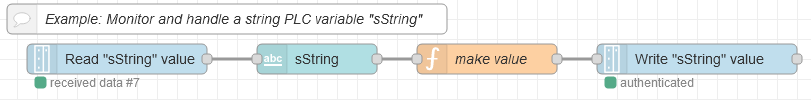
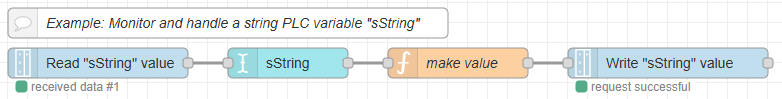
Dashboard 2.0 PLC examples added

diff --git a/doc/EXAMPLES.md b/doc/EXAMPLES.md
@@ -299,7 +299,7 @@ The request returns in `msg.payload` the written value:
 
 ## ctrlX OS - PLC App dashboard examples
 
-Please note that for these examples the installation of the ctrlX OS - PLC App is expected. See [our store](https://community.boschrexroth.com/ctrlx-os-store-apps-oc2pqqwn/post/ctrlx-os---plc-aOZcdG2bmV0fNRE) and the corresponding [documentation of the ctrlX OS - PLC App](https://docs.automation.boschrexroth.com/iirds/cdp-metadata.boschrexroth.de~iiDC~Product-ctrlX-PLC-App/).
+Please note that for these examples the installation of the ctrlX OS - PLC App is expected. See [our ctrlX OS Store](https://community.boschrexroth.com/ctrlx-os-store-apps-oc2pqqwn/post/ctrlx-os---plc-aOZcdG2bmV0fNRE) and the corresponding [documentation of the ctrlX OS - PLC App](https://docs.automation.boschrexroth.com/iirds/cdp-metadata.boschrexroth.de~iiDC~Product-ctrlX-PLC-App/).
 
 ### Monitor and handle a boolean PLC variable "bBoolean"
 
@@ -325,8 +325,14 @@ bBoolean;
 ![examples-plc-monitor-handle-boolean.png](./images/examples-plc-monitor-handle-boolean.png)
 ![examples-plc-monitor-handle-boolean-dashboard.png](./images/examples-plc-monitor-handle-boolean-dashboard.png)
 
+Dashboard 1.0
 ```JSON
 [{"id":"c1cc8f5b.e11858","type":"ctrlx-datalayer-request","z":"4ff80d56.dd60fc","device":"7b877229.678964","method":"WRITE","path":"plc/app/Application/sym/GVL/bBoolean","payloadFormat":"value_type","name":"Write \"bBoolean\" value","x":790,"y":160,"wires":[[]]},{"id":"ec4257d3.ae58b","type":"ui_switch","z":"4ff80d56.dd60fc","name":"","label":"bBoolean ","tooltip":"","group":"938bb9af.bc8108","order":1,"width":"0","height":"0","passthru":false,"decouple":"true","topic":"","topicType":"str","style":"","onvalue":"{\"value\":true,\"type\":\"bool8\"}","onvalueType":"json","onicon":"","oncolor":"","offvalue":"{\"value\":false,\"type\":\"bool8\"}","offvalueType":"json","officon":"","offcolor":"","animate":false,"x":580,"y":160,"wires":[["c1cc8f5b.e11858"]]},{"id":"d2ca5a5e.a1144","type":"comment","z":"4ff80d56.dd60fc","name":"Example: Monitor and handle a boolean PLC variable \"bBoolean\"","info":"","x":300,"y":120,"wires":[]},{"id":"430d03bd.4a9864","type":"ctrlx-datalayer-subscribe","z":"4ff80d56.dd60fc","subscription":"632bcc2.eddf134","path":"plc/app/Application/sym/GVL/bBoolean","name":"Read \"bBoolean\" value","x":200,"y":160,"wires":[["d399bf94.d6f75"]]},{"id":"d399bf94.d6f75","type":"function","z":"4ff80d56.dd60fc","name":"make value","func":"var newMsg = {}\nnewMsg.payload = {\"type\":\"bool8\",\"value\":msg.payload}\nreturn newMsg;","outputs":1,"noerr":0,"initialize":"","finalize":"","libs":[],"x":410,"y":160,"wires":[["ec4257d3.ae58b"]]},{"id":"7b877229.678964","type":"ctrlx-config","name":"localhost","hostname":"localhost","debug":false},{"id":"938bb9af.bc8108","type":"ui_group","name":"PLC Variable handling","tab":"9cba2148.8c9148","order":1,"disp":true,"width":"4","collapse":false},{"id":"632bcc2.eddf134","type":"ctrlx-config-subscription","device":"7b877229.678964","name":"Sub_Default","publishIntervalMs":""},{"id":"9cba2148.8c9148","type":"ui_tab","name":"Examples","icon":"dashboard","order":7,"disabled":false,"hidden":false}]
+```
+
+Dashboard 2.0
+```JSON
+[{"id":"c1cc8f5b.e11858","type":"ctrlx-datalayer-request","z":"af28b7f20c662b36","device":"7b877229.678964","method":"WRITE","path":"plc/app/Application/sym/GVL/bBoolean","payloadFormat":"value_type","name":"Write \"bBoolean\" value","pendingWarnLevel":"","pendingErrorLevel":"","x":740,"y":1020,"wires":[[]]},{"id":"d2ca5a5e.a1144","type":"comment","z":"af28b7f20c662b36","name":"Example: Monitor and handle a boolean PLC variable \"bBoolean\"","info":"","x":290,"y":980,"wires":[]},{"id":"430d03bd.4a9864","type":"ctrlx-datalayer-subscribe","z":"af28b7f20c662b36","subscription":"632bcc2.eddf134","path":"plc/app/Application/sym/GVL/bBoolean","name":"Read \"bBoolean\" value","inputs":0,"x":160,"y":1020,"wires":[["d399bf94.d6f75"]]},{"id":"d399bf94.d6f75","type":"function","z":"af28b7f20c662b36","name":"make value","func":"var newMsg = {}\nnewMsg.payload = {\"type\":\"bool8\",\"value\":msg.payload}\nreturn newMsg;","outputs":1,"timeout":"","noerr":0,"initialize":"","finalize":"","libs":[],"x":370,"y":1020,"wires":[["ef83ceeb10b7e4a5"]]},{"id":"ef83ceeb10b7e4a5","type":"ui-switch","z":"af28b7f20c662b36","name":"","label":"bBolean","group":"1b28f1fbf61ee8d3","order":0,"width":"1","height":"1","passthru":false,"decouple":true,"topic":"topic","topicType":"msg","style":"","className":"","layout":"row-spread","clickableArea":"switch","onvalue":"{\"type\":\"bool8\", \"value\":true}","onvalueType":"json","onicon":"","oncolor":"","offvalue":"{\"type\":\"bool8\", \"value\":false}","offvalueType":"json","officon":"","offcolor":"","x":540,"y":1020,"wires":[["c1cc8f5b.e11858"]]},{"id":"7b877229.678964","type":"ctrlx-config","name":"localhost","hostname":"localhost","debug":false},{"id":"632bcc2.eddf134","type":"ctrlx-config-subscription","device":"7b877229.678964","name":"Sub_Default","publishIntervalMs":"","samplingInterval":"","errorInterval":"","keepaliveInterval":"","queueSize":"","deadbandValue":""},{"id":"1b28f1fbf61ee8d3","type":"ui-group","name":"PLC variable handling","page":"30e3bb10109e324b","width":6,"height":1,"order":-1,"showTitle":true,"className":"","visible":"true","disabled":"false","groupType":"default"},{"id":"30e3bb10109e324b","type":"ui-page","name":"Page 1","ui":"ae50776f3a63db0e","path":"/page1","icon":"home","layout":"grid","theme":"a204995a5a44f2b2","breakpoints":[{"name":"Default","px":0,"cols":3},{"name":"Tablet","px":576,"cols":6},{"name":"Small Desktop","px":768,"cols":9},{"name":"Desktop","px":1024,"cols":12}],"order":1,"className":"","visible":true,"disabled":false},{"id":"ae50776f3a63db0e","type":"ui-base","name":"My Dashboard","path":"/dashboard","appIcon":"","includeClientData":true,"acceptsClientConfig":["ui-notification","ui-control"],"showPathInSidebar":false,"headerContent":"page","navigationStyle":"default","titleBarStyle":"default","showReconnectNotification":true,"notificationDisplayTime":1,"showDisconnectNotification":true,"allowInstall":false},{"id":"a204995a5a44f2b2","type":"ui-theme","name":"Default Theme","colors":{"surface":"#ffffff","primary":"#0094CE","bgPage":"#eeeeee","groupBg":"#ffffff","groupOutline":"#cccccc"},"sizes":{"density":"default","pagePadding":"12px","groupGap":"12px","groupBorderRadius":"4px","widgetGap":"12px"}},{"id":"42a5b5027f278091","type":"global-config","env":[],"modules":{"node-red-contrib-ctrlx-automation":"1.9.8","@flowfuse/node-red-dashboard":"1.30.2"}}]
 ```
 
 ### Monitor and handle an integer PLC variable "iInteger"
@@ -339,7 +345,7 @@ The following example shows how to read, write and monitor a PLC variable `iInte
 {attribute 'linkalways'}
 {attribute 'symbol' := 'readwrite'}
 VAR_GLOBAL
-  iInteger : BOOL;
+  iInteger : INT;
 END_VAR
 ```
 
@@ -352,8 +358,14 @@ iInteger;
 ![examples-plc-monitor-handle-integer.png](./images/examples-plc-monitor-handle-integer.png)
 ![examples-plc-monitor-handle-integer-dashboard.png](./images/examples-plc-monitor-handle-integer-dashboard.png)
 
+Dashboard 1.0
 ```JSON
 [{"id":"6afd3c5c.85174c","type":"ctrlx-datalayer-request","z":"4ff80d56.dd60fc","device":"7b877229.678964","method":"WRITE","path":"plc/app/Application/sym/GVL/iInteger","payloadFormat":"value_type","name":"Write \"iInteger\" value","x":780,"y":300,"wires":[[]]},{"id":"699499c0.a19078","type":"ui_text_input","z":"4ff80d56.dd60fc","name":"","label":"iInteger","tooltip":"","group":"938bb9af.bc8108","order":1,"width":0,"height":0,"passthru":false,"mode":"number","delay":"0","topic":"topic","topicType":"msg","x":400,"y":300,"wires":[["dad913ff.7d0c6"]]},{"id":"dad913ff.7d0c6","type":"function","z":"4ff80d56.dd60fc","name":"make value","func":"var newMsg = {}\nnewMsg.payload = {\"type\":\"int16\",\"value\":msg.payload}\nreturn newMsg;","outputs":1,"noerr":0,"initialize":"","finalize":"","x":570,"y":300,"wires":[["6afd3c5c.85174c"]]},{"id":"f24564a9.ceb668","type":"ctrlx-datalayer-subscribe","z":"4ff80d56.dd60fc","subscription":"632bcc2.eddf134","path":"plc/app/Application/sym/GVL/iInteger","name":"Read \"iInteger\" value","x":200,"y":300,"wires":[["699499c0.a19078"]]},{"id":"1da5cb6a.45e5cd","type":"comment","z":"4ff80d56.dd60fc","name":"Example: Monitor and handle an integer PLC variable \"iInteger\"","info":"","x":300,"y":260,"wires":[]},{"id":"7b877229.678964","type":"ctrlx-config","name":"localhost","hostname":"localhost","debug":false},{"id":"938bb9af.bc8108","type":"ui_group","name":"PLC Variable handling","tab":"9cba2148.8c9148","order":1,"disp":true,"width":"4","collapse":false},{"id":"632bcc2.eddf134","type":"ctrlx-config-subscription","device":"7b877229.678964","name":"Sub_Default","publishIntervalMs":""},{"id":"9cba2148.8c9148","type":"ui_tab","name":"Examples","icon":"dashboard","order":7,"disabled":false,"hidden":false}]
+```
+
+Dashboard 2.0
+```JSON
+[{"id":"6afd3c5c.85174c","type":"ctrlx-datalayer-request","z":"af28b7f20c662b36","device":"7b877229.678964","method":"WRITE","path":"plc/app/Application/sym/GVL/iInteger","payloadFormat":"value_type","name":"Write \"iInteger\" value","pendingWarnLevel":"","pendingErrorLevel":"","x":780,"y":1200,"wires":[[]]},{"id":"dad913ff.7d0c6","type":"function","z":"af28b7f20c662b36","name":"make value","func":"var newMsg = {}\nnewMsg.payload = {\"type\":\"int16\",\"value\":msg.payload}\nreturn newMsg;","outputs":1,"timeout":"","noerr":0,"initialize":"","finalize":"","libs":[],"x":570,"y":1200,"wires":[["6afd3c5c.85174c"]]},{"id":"f24564a9.ceb668","type":"ctrlx-datalayer-subscribe","z":"af28b7f20c662b36","subscription":"632bcc2.eddf134","path":"plc/app/Application/sym/GVL/iInteger","name":"Read \"iInteger\" value","inputs":0,"x":200,"y":1200,"wires":[["1a9096f298857516"]]},{"id":"1da5cb6a.45e5cd","type":"comment","z":"af28b7f20c662b36","name":"Example: Monitor and handle an integer PLC variable \"iInteger\"","info":"","x":330,"y":1160,"wires":[]},{"id":"1a9096f298857516","type":"ui-number-input","z":"af28b7f20c662b36","group":"1b28f1fbf61ee8d3","name":"","label":"iInteger","order":0,"width":"1","height":"1","topic":"topic","topicType":"msg","min":0,"max":"32767","step":1,"tooltip":"","delay":300,"passthru":false,"sendOnDelay":false,"sendOnBlur":false,"sendOnEnter":true,"className":"","clearable":false,"icon":"","iconPosition":"left","iconInnerPosition":"inside","spinner":"stacked","x":400,"y":1200,"wires":[["dad913ff.7d0c6"]]},{"id":"7b877229.678964","type":"ctrlx-config","name":"localhost","hostname":"localhost","debug":false},{"id":"632bcc2.eddf134","type":"ctrlx-config-subscription","device":"7b877229.678964","name":"Sub_Default","publishIntervalMs":"","samplingInterval":"","errorInterval":"","keepaliveInterval":"","queueSize":"","deadbandValue":""},{"id":"1b28f1fbf61ee8d3","type":"ui-group","name":"PLC variable handling","page":"30e3bb10109e324b","width":6,"height":1,"order":-1,"showTitle":true,"className":"","visible":"true","disabled":"false","groupType":"default"},{"id":"30e3bb10109e324b","type":"ui-page","name":"Page 1","ui":"ae50776f3a63db0e","path":"/page1","icon":"home","layout":"grid","theme":"a204995a5a44f2b2","breakpoints":[{"name":"Default","px":0,"cols":3},{"name":"Tablet","px":576,"cols":6},{"name":"Small Desktop","px":768,"cols":9},{"name":"Desktop","px":1024,"cols":12}],"order":1,"className":"","visible":true,"disabled":false},{"id":"ae50776f3a63db0e","type":"ui-base","name":"My Dashboard","path":"/dashboard","appIcon":"","includeClientData":true,"acceptsClientConfig":["ui-notification","ui-control"],"showPathInSidebar":false,"headerContent":"page","navigationStyle":"default","titleBarStyle":"default","showReconnectNotification":true,"notificationDisplayTime":1,"showDisconnectNotification":true,"allowInstall":false},{"id":"a204995a5a44f2b2","type":"ui-theme","name":"Default Theme","colors":{"surface":"#ffffff","primary":"#0094CE","bgPage":"#eeeeee","groupBg":"#ffffff","groupOutline":"#cccccc"},"sizes":{"density":"default","pagePadding":"12px","groupGap":"12px","groupBorderRadius":"4px","widgetGap":"12px"}},{"id":"447b96d795e81db9","type":"global-config","env":[],"modules":{"node-red-contrib-ctrlx-automation":"1.9.8","@flowfuse/node-red-dashboard":"1.30.2"}}]
 ```
 
 ### Monitor and handle a real PLC variable "rReal"
@@ -366,7 +378,7 @@ The following example shows how to read, write and monitor a PLC variable `rReal
 {attribute 'linkalways'}
 {attribute 'symbol' := 'readwrite'}
 VAR_GLOBAL
-  rReal : BOOL;
+  rReal : REAL;
 END_VAR
 ```
 
@@ -379,8 +391,14 @@ rReal;
 ![examples-plc-monitor-handle-real.png](./images/examples-plc-monitor-handle-real.png)
 ![examples-plc-monitor-handle-real-dashboard.png](./images/examples-plc-monitor-handle-real-dashboard.png)
 
+Dashboard 1.0
 ```JSON
 [{"id":"2c89b6ef.36830a","type":"ctrlx-datalayer-request","z":"4ff80d56.dd60fc","device":"7b877229.678964","method":"WRITE","path":"plc/app/Application/sym/GVL/rReal","payloadFormat":"value_type","name":"Write \"rReal\" value","x":970,"y":440,"wires":[[]]},{"id":"370f99d.1a78366","type":"ui_text_input","z":"4ff80d56.dd60fc","name":"","label":"rReal","tooltip":"","group":"938bb9af.bc8108","order":1,"width":0,"height":0,"passthru":false,"mode":"number","delay":"0","topic":"topic","topicType":"msg","x":610,"y":440,"wires":[["4f0d75c5.219fc4"]]},{"id":"4f0d75c5.219fc4","type":"function","z":"4ff80d56.dd60fc","name":"make value","func":"var newMsg = {}\nif (msg.payload.value != null){\n    //newMsg.payload = {\"type\":\"float\",\"value\":Number(msg.payload.value)}\n    newMsg.payload = {\"type\":\"float\",\"value\":msg.payload.value}\n}\nelse {\n    //newMsg.payload = {\"type\":\"float\",\"value\":Number(msg.payload)}\n    newMsg.payload = {\"type\":\"float\",\"value\":msg.payload}\n}\nreturn newMsg;","outputs":1,"noerr":0,"initialize":"","finalize":"","x":770,"y":440,"wires":[["2c89b6ef.36830a"]]},{"id":"5bd100f5.b21dd8","type":"ctrlx-datalayer-subscribe","z":"4ff80d56.dd60fc","subscription":"632bcc2.eddf134","path":"plc/app/Application/sym/GVL/rReal","name":"Read \"rReal\" value","x":190,"y":440,"wires":[["17614aa4.d713dd"]]},{"id":"f479d2d0.e553c","type":"comment","z":"4ff80d56.dd60fc","name":"Example: Monitor and handle a real PLC variable \"rReal\"","info":"","x":290,"y":400,"wires":[]},{"id":"17614aa4.d713dd","type":"function","z":"4ff80d56.dd60fc","name":"make value fixed(5)","func":"//msg.test = msg.payload.toFixed(5);\nmsg.payload = Number(msg.payload.toFixed(5));\nreturn msg","outputs":1,"noerr":0,"initialize":"","finalize":"","x":420,"y":440,"wires":[["370f99d.1a78366"]]},{"id":"7b877229.678964","type":"ctrlx-config","name":"localhost","hostname":"localhost","debug":false},{"id":"938bb9af.bc8108","type":"ui_group","name":"PLC Variable handling","tab":"9cba2148.8c9148","order":1,"disp":true,"width":"4","collapse":false},{"id":"632bcc2.eddf134","type":"ctrlx-config-subscription","device":"7b877229.678964","name":"Sub_Default","publishIntervalMs":""},{"id":"9cba2148.8c9148","type":"ui_tab","name":"Examples","icon":"dashboard","order":7,"disabled":false,"hidden":false}]
+```
+
+Dashboard 2.0
+```JSON
+[{"id":"2c89b6ef.36830a","type":"ctrlx-datalayer-request","z":"af28b7f20c662b36","device":"7b877229.678964","method":"WRITE","path":"plc/app/Application/sym/GVL/rReal","payloadFormat":"value_type","name":"Write \"rReal\" value","pendingWarnLevel":"","pendingErrorLevel":"","x":910,"y":1120,"wires":[[]]},{"id":"4f0d75c5.219fc4","type":"function","z":"af28b7f20c662b36","name":"make value","func":"var newMsg = {}\nif (msg.payload.value != null){\n    //newMsg.payload = {\"type\":\"float\",\"value\":Number(msg.payload.value)}\n    newMsg.payload = {\"type\":\"float\",\"value\":msg.payload.value}\n}\nelse {\n    //newMsg.payload = {\"type\":\"float\",\"value\":Number(msg.payload)}\n    newMsg.payload = {\"type\":\"float\",\"value\":msg.payload}\n}\nreturn newMsg;","outputs":1,"timeout":"","noerr":0,"initialize":"","finalize":"","libs":[],"x":710,"y":1120,"wires":[["2c89b6ef.36830a"]]},{"id":"5bd100f5.b21dd8","type":"ctrlx-datalayer-subscribe","z":"af28b7f20c662b36","subscription":"632bcc2.eddf134","path":"plc/app/Application/sym/GVL/rReal","name":"Read \"rReal\" value","inputs":0,"x":150,"y":1120,"wires":[["17614aa4.d713dd"]]},{"id":"f479d2d0.e553c","type":"comment","z":"af28b7f20c662b36","name":"Example: Monitor and handle a real PLC variable \"rReal\"","info":"","x":270,"y":1080,"wires":[]},{"id":"17614aa4.d713dd","type":"function","z":"af28b7f20c662b36","name":"make value fixed(5)","func":"//msg.test = msg.payload.toFixed(5);\nmsg.payload = Number(msg.payload.toFixed(5));\nreturn msg","outputs":1,"noerr":0,"initialize":"","finalize":"","x":370,"y":1120,"wires":[["736fb17b6c307697"]]},{"id":"736fb17b6c307697","type":"ui-number-input","z":"af28b7f20c662b36","group":"1b28f1fbf61ee8d3","name":"","label":"rReal","order":0,"width":"1","height":"1","topic":"topic","topicType":"msg","min":0,"max":"999","step":"0.00001","tooltip":"","delay":300,"passthru":false,"sendOnDelay":false,"sendOnBlur":true,"sendOnEnter":true,"className":"","clearable":false,"icon":"","iconPosition":"left","iconInnerPosition":"inside","spinner":"stacked","x":550,"y":1120,"wires":[["4f0d75c5.219fc4"]]},{"id":"7b877229.678964","type":"ctrlx-config","name":"localhost","hostname":"localhost","debug":false},{"id":"632bcc2.eddf134","type":"ctrlx-config-subscription","device":"7b877229.678964","name":"Sub_Default","publishIntervalMs":"","samplingInterval":"","errorInterval":"","keepaliveInterval":"","queueSize":"","deadbandValue":""},{"id":"1b28f1fbf61ee8d3","type":"ui-group","name":"PLC variable handling","page":"30e3bb10109e324b","width":6,"height":1,"order":-1,"showTitle":true,"className":"","visible":"true","disabled":"false","groupType":"default"},{"id":"30e3bb10109e324b","type":"ui-page","name":"Page 1","ui":"ae50776f3a63db0e","path":"/page1","icon":"home","layout":"grid","theme":"a204995a5a44f2b2","breakpoints":[{"name":"Default","px":0,"cols":3},{"name":"Tablet","px":576,"cols":6},{"name":"Small Desktop","px":768,"cols":9},{"name":"Desktop","px":1024,"cols":12}],"order":1,"className":"","visible":true,"disabled":false},{"id":"ae50776f3a63db0e","type":"ui-base","name":"My Dashboard","path":"/dashboard","appIcon":"","includeClientData":true,"acceptsClientConfig":["ui-notification","ui-control"],"showPathInSidebar":false,"headerContent":"page","navigationStyle":"default","titleBarStyle":"default","showReconnectNotification":true,"notificationDisplayTime":1,"showDisconnectNotification":true,"allowInstall":false},{"id":"a204995a5a44f2b2","type":"ui-theme","name":"Default Theme","colors":{"surface":"#ffffff","primary":"#0094CE","bgPage":"#eeeeee","groupBg":"#ffffff","groupOutline":"#cccccc"},"sizes":{"density":"default","pagePadding":"12px","groupGap":"12px","groupBorderRadius":"4px","widgetGap":"12px"}},{"id":"fac0ea031cd2e369","type":"global-config","env":[],"modules":{"node-red-contrib-ctrlx-automation":"1.9.8","@flowfuse/node-red-dashboard":"1.30.2"}}]
 ```
 
 ### Monitor and handle a string PLC variable "sString"
@@ -393,7 +411,7 @@ The following example shows how to read, write and monitor a PLC variable `sStri
 {attribute 'linkalways'}
 {attribute 'symbol' := 'readwrite'}
 VAR_GLOBAL
-  sString : BOOL;
+  sString : STRING;
 END_VAR
 ```
 
@@ -406,8 +424,14 @@ sString;
 ![examples-plc-monitor-handle-string.png](./images/examples-plc-monitor-handle-string.png)
 ![examples-plc-monitor-handle-string-dashboard.png](./images/examples-plc-monitor-handle-string-dashboard.png)
 
+Dashboard 1.0
 ```JSON
 [{"id":"52f3b28.7154acc","type":"ctrlx-datalayer-request","z":"4ff80d56.dd60fc","device":"7b877229.678964","method":"WRITE","path":"plc/app/Application/sym/GVL/sString","payloadFormat":"value_type","name":"Write \"sString\" value","x":780,"y":580,"wires":[[]]},{"id":"a84a6218.d8fa38","type":"ui_text_input","z":"4ff80d56.dd60fc","name":"","label":"sString","tooltip":"","group":"938bb9af.bc8108","order":1,"width":0,"height":0,"passthru":false,"mode":"text","delay":"0","topic":"topic","topicType":"msg","x":400,"y":580,"wires":[["b77fcdb1.bb59e"]]},{"id":"b77fcdb1.bb59e","type":"function","z":"4ff80d56.dd60fc","name":"make value","func":"var newMsg = {}\nnewMsg.payload = {\"type\":\"string\",\"value\":msg.payload}\nreturn newMsg;","outputs":1,"noerr":0,"initialize":"","finalize":"","x":570,"y":580,"wires":[["52f3b28.7154acc"]]},{"id":"7fd8a2ba.130acc","type":"ctrlx-datalayer-subscribe","z":"4ff80d56.dd60fc","subscription":"632bcc2.eddf134","path":"plc/app/Application/sym/GVL/sString","name":"Read \"sString\" value","x":200,"y":580,"wires":[["a84a6218.d8fa38"]]},{"id":"efa71414.90e038","type":"comment","z":"4ff80d56.dd60fc","name":"Example: Monitor and handle a string PLC variable \"sString\"","info":"","x":310,"y":540,"wires":[]},{"id":"7b877229.678964","type":"ctrlx-config","name":"localhost","hostname":"localhost","debug":false},{"id":"938bb9af.bc8108","type":"ui_group","name":"PLC Variable handling","tab":"9cba2148.8c9148","order":1,"disp":true,"width":"4","collapse":false},{"id":"632bcc2.eddf134","type":"ctrlx-config-subscription","device":"7b877229.678964","name":"Sub_Default","publishIntervalMs":""},{"id":"9cba2148.8c9148","type":"ui_tab","name":"Examples","icon":"dashboard","order":7,"disabled":false,"hidden":false}]
+```
+
+Dashboard 2.0
+```JSON
+[{"id":"52f3b28.7154acc","type":"ctrlx-datalayer-request","z":"af28b7f20c662b36","device":"7b877229.678964","method":"WRITE","path":"plc/app/Application/sym/GVL/sString","payloadFormat":"value_type","name":"Write \"sString\" value","pendingWarnLevel":"","pendingErrorLevel":"","x":720,"y":1220,"wires":[[]]},{"id":"b77fcdb1.bb59e","type":"function","z":"af28b7f20c662b36","name":"make value","func":"var newMsg = {}\nnewMsg.payload = {\"type\":\"string\",\"value\":msg.payload}\nreturn newMsg;","outputs":1,"timeout":"","noerr":0,"initialize":"","finalize":"","libs":[],"x":510,"y":1220,"wires":[["52f3b28.7154acc"]]},{"id":"7fd8a2ba.130acc","type":"ctrlx-datalayer-subscribe","z":"af28b7f20c662b36","subscription":"632bcc2.eddf134","path":"plc/app/Application/sym/GVL/sString","name":"Read \"sString\" value","inputs":0,"x":150,"y":1220,"wires":[["e7ada3126a2d3c24"]]},{"id":"efa71414.90e038","type":"comment","z":"af28b7f20c662b36","name":"Example: Monitor and handle a string PLC variable \"sString\"","info":"","x":280,"y":1180,"wires":[]},{"id":"e7ada3126a2d3c24","type":"ui-text-input","z":"af28b7f20c662b36","group":"1b28f1fbf61ee8d3","name":"","label":"sString","order":0,"width":"1","height":"1","topic":"topic","topicType":"msg","mode":"text","tooltip":"","delay":300,"passthru":true,"sendOnDelay":false,"sendOnBlur":true,"sendOnEnter":true,"className":"","clearable":false,"sendOnClear":false,"icon":"","iconPosition":"left","iconInnerPosition":"inside","x":340,"y":1220,"wires":[["b77fcdb1.bb59e"]]},{"id":"7b877229.678964","type":"ctrlx-config","name":"localhost","hostname":"localhost","debug":false},{"id":"632bcc2.eddf134","type":"ctrlx-config-subscription","device":"7b877229.678964","name":"Sub_Default","publishIntervalMs":"","samplingInterval":"","errorInterval":"","keepaliveInterval":"","queueSize":"","deadbandValue":""},{"id":"1b28f1fbf61ee8d3","type":"ui-group","name":"PLC variable handling","page":"30e3bb10109e324b","width":6,"height":1,"order":-1,"showTitle":true,"className":"","visible":"true","disabled":"false","groupType":"default"},{"id":"30e3bb10109e324b","type":"ui-page","name":"Page 1","ui":"ae50776f3a63db0e","path":"/page1","icon":"home","layout":"grid","theme":"a204995a5a44f2b2","breakpoints":[{"name":"Default","px":0,"cols":3},{"name":"Tablet","px":576,"cols":6},{"name":"Small Desktop","px":768,"cols":9},{"name":"Desktop","px":1024,"cols":12}],"order":1,"className":"","visible":true,"disabled":false},{"id":"ae50776f3a63db0e","type":"ui-base","name":"My Dashboard","path":"/dashboard","appIcon":"","includeClientData":true,"acceptsClientConfig":["ui-notification","ui-control"],"showPathInSidebar":false,"headerContent":"page","navigationStyle":"default","titleBarStyle":"default","showReconnectNotification":true,"notificationDisplayTime":1,"showDisconnectNotification":true,"allowInstall":false},{"id":"a204995a5a44f2b2","type":"ui-theme","name":"Default Theme","colors":{"surface":"#ffffff","primary":"#0094CE","bgPage":"#eeeeee","groupBg":"#ffffff","groupOutline":"#cccccc"},"sizes":{"density":"default","pagePadding":"12px","groupGap":"12px","groupBorderRadius":"4px","widgetGap":"12px"}},{"id":"0a5a2370b2b53530","type":"global-config","env":[],"modules":{"node-red-contrib-ctrlx-automation":"1.9.8","@flowfuse/node-red-dashboard":"1.30.2"}}]
 ```
 
 ### Monitor and handle a struct PLC variable "strStruct"
@@ -444,13 +468,19 @@ strStruct;
 ![examples-plc-monitor-handle-struct.png](./images/examples-plc-monitor-handle-struct.png)
 ![examples-plc-monitor-handle-struct-dashboard.png](./images/examples-plc-monitor-handle-struct-dashboard.png)
 
+Dashboard 1.0
 ```JSON
 [{"id":"6f5d6bbd194918ae","type":"ui_form","z":"38bcc9961503333d","name":"","label":"Input form","group":"938bb9af.bc8108","order":1,"width":0,"height":0,"options":[{"label":"bBool","value":"bBool","type":"checkbox","required":true,"rows":null},{"label":"iInt","value":"iInt","type":"number","required":true,"rows":null}],"formValue":{"bBool":false,"iInt":""},"payload":"","submit":"submit","cancel":"cancel","topic":"topic","topicType":"msg","splitLayout":"","className":"","x":420,"y":580,"wires":[["1313c8d3ddaacf48"]]},{"id":"efa71414.90e038","type":"comment","z":"38bcc9961503333d","name":"Example: Monitor and handle a struct PLC variable \"strStruct\"","info":"","x":380,"y":540,"wires":[]},{"id":"1313c8d3ddaacf48","type":"function","z":"38bcc9961503333d","name":"make value","func":"var newMsg = {}\nnewMsg.payload = { \"type\": \"object\", \"value\": {\n    \"bBool\": msg.payload.bBool,\n    \"iInt\": msg.payload.iInt} }\nreturn newMsg;","outputs":1,"timeout":0,"noerr":0,"initialize":"","finalize":"","libs":[],"x":590,"y":580,"wires":[["52f3b28.7154acc"]]},{"id":"88e501beb3dd7132","type":"ctrlx-datalayer-subscribe","z":"38bcc9961503333d","subscription":"632bcc2.eddf134","path":"plc/app/Application/sym/GVL/strStruct","name":"Read \"strStruct\"","inputs":0,"x":240,"y":580,"wires":[["6f5d6bbd194918ae"]]},{"id":"52f3b28.7154acc","type":"ctrlx-datalayer-request","z":"38bcc9961503333d","device":"7b877229.678964","method":"WRITE","path":"plc/app/Application/sym/GVL/strStruct","payloadFormat":"value_type","name":"Write \"strStruct\"","pendingWarnLevel":"","pendingErrorLevel":"","x":780,"y":580,"wires":[[]]},{"id":"938bb9af.bc8108","type":"ui_group","name":"PLC Variable handling","tab":"9cba2148.8c9148","order":1,"disp":true,"width":"4","collapse":false},{"id":"632bcc2.eddf134","type":"ctrlx-config-subscription","device":"7b877229.678964","name":"Sub_Default","publishIntervalMs":"1","publishIntervalUnits":"seconds","samplingInterval":"100","samplingIntervalUnits":"milliseconds","errorInterval":"60","errorIntervalUnits":"seconds","keepaliveInterval":"60","keepaliveIntervalUnits":"seconds","queueSize":"1","queueBehaviour":"DiscardOldest","deadbandValue":""},{"id":"7b877229.678964","type":"ctrlx-config","name":"localhost","hostname":"localhost","debug":false},{"id":"9cba2148.8c9148","type":"ui_tab","name":"Examples","icon":"dashboard","order":7,"disabled":false,"hidden":false}]
 ```
 
+Dashboard 2.0
+```JSON
+[{"id":"59037bcc3b563c38","type":"comment","z":"af28b7f20c662b36","name":"Example: Monitor and handle a struct PLC variable \"strStruct\"","info":"","x":280,"y":1280,"wires":[]},{"id":"1313c8d3ddaacf48","type":"function","z":"af28b7f20c662b36","name":"make value","func":"var newMsg = {}\nnewMsg.payload = { \"type\": \"object\", \"value\": {\n    \"bBool\": msg.payload.bBool,\n    \"iInteger\": msg.payload.iInteger} }\nreturn newMsg;","outputs":1,"timeout":0,"noerr":0,"initialize":"","finalize":"","libs":[],"x":490,"y":1320,"wires":[["aed980b5cd72d73c"]]},{"id":"88e501beb3dd7132","type":"ctrlx-datalayer-subscribe","z":"af28b7f20c662b36","subscription":"632bcc2.eddf134","path":"plc/app/Application/sym/GVL/strStruct","name":"Read \"strStruct\"","inputs":0,"x":140,"y":1320,"wires":[["66a4ceb610c227ae"]]},{"id":"aed980b5cd72d73c","type":"ctrlx-datalayer-request","z":"af28b7f20c662b36","device":"7b877229.678964","method":"WRITE","path":"plc/app/Application/sym/GVL/strStruct","payloadFormat":"value_type","name":"Write \"strStruct\"","pendingWarnLevel":"","pendingErrorLevel":"","x":680,"y":1320,"wires":[[]]},{"id":"66a4ceb610c227ae","type":"ui-form","z":"af28b7f20c662b36","name":"","group":"1b28f1fbf61ee8d3","label":"strStruct","order":0,"width":"2","height":"5","options":[{"label":"","key":"bBool","type":"switch","required":true,"rows":null},{"label":"","key":"iInteger","type":"number","required":true,"rows":null}],"formValue":{"bBool":false,"iInteger":""},"payload":"","submit":"submit","cancel":"clear","resetOnSubmit":false,"topic":"topic","topicType":"msg","splitLayout":"","className":"","passthru":false,"dropdownOptions":[],"x":320,"y":1320,"wires":[["1313c8d3ddaacf48"]]},{"id":"632bcc2.eddf134","type":"ctrlx-config-subscription","device":"7b877229.678964","name":"Sub_Default","publishIntervalMs":"","samplingInterval":"","errorInterval":"","keepaliveInterval":"","queueSize":"","deadbandValue":""},{"id":"7b877229.678964","type":"ctrlx-config","name":"localhost","hostname":"localhost","debug":false},{"id":"1b28f1fbf61ee8d3","type":"ui-group","name":"PLC variable handling","page":"30e3bb10109e324b","width":6,"height":1,"order":-1,"showTitle":true,"className":"","visible":"true","disabled":"false","groupType":"default"},{"id":"30e3bb10109e324b","type":"ui-page","name":"Page 1","ui":"ae50776f3a63db0e","path":"/page1","icon":"home","layout":"grid","theme":"a204995a5a44f2b2","breakpoints":[{"name":"Default","px":0,"cols":3},{"name":"Tablet","px":576,"cols":6},{"name":"Small Desktop","px":768,"cols":9},{"name":"Desktop","px":1024,"cols":12}],"order":1,"className":"","visible":true,"disabled":false},{"id":"ae50776f3a63db0e","type":"ui-base","name":"My Dashboard","path":"/dashboard","appIcon":"","includeClientData":true,"acceptsClientConfig":["ui-notification","ui-control"],"showPathInSidebar":false,"headerContent":"page","navigationStyle":"default","titleBarStyle":"default","showReconnectNotification":true,"notificationDisplayTime":1,"showDisconnectNotification":true,"allowInstall":false},{"id":"a204995a5a44f2b2","type":"ui-theme","name":"Default Theme","colors":{"surface":"#ffffff","primary":"#0094CE","bgPage":"#eeeeee","groupBg":"#ffffff","groupOutline":"#cccccc"},"sizes":{"density":"default","pagePadding":"12px","groupGap":"12px","groupBorderRadius":"4px","widgetGap":"12px"}},{"id":"5b3521378bd8b9b0","type":"global-config","env":[],"modules":{"node-red-contrib-ctrlx-automation":"1.9.8","@flowfuse/node-red-dashboard":"1.30.2"}}]
+```
+
 ## ctrlX OS - MOTION App dashboard examples
 
-Please note that for these examples the installation of the ctrlX OS - MOTION App is expected. See [our store](https://community.boschrexroth.com/ctrlx-os-store-apps-oc2pqqwn/post/ctrlx-os---motion-YSFFuOOjW6y44qO) and the corresponding [documentation of the ctrlX OS - MOTION App](https://docs.automation.boschrexroth.com/iirds/cdp-metadata.boschrexroth.de~iiDC~Product-ctrlX-Motion-App/).
+Please note that for these examples the installation of the ctrlX OS - MOTION App is expected. See [our ctrlX OS Store](https://community.boschrexroth.com/ctrlx-os-store-apps-oc2pqqwn/post/ctrlx-os---motion-YSFFuOOjW6y44qO) and the corresponding [documentation of the ctrlX OS - MOTION App](https://docs.automation.boschrexroth.com/iirds/cdp-metadata.boschrexroth.de~iiDC~Product-ctrlX-Motion-App/).
 
 ### Monitor and switch motion state
 
@@ -596,7 +626,7 @@ The following example shows how to reset errors for the kinematic "Robot". If th
 
 ## Script interpreter and ctrlX OS - Python Runtime App dashboard examples
 
-Please note that for these examples the installation of the `ctrlX OS - Python Runtime App` is expected. See [our store](https://community.boschrexroth.com/ctrlx-os-store-apps-oc2pqqwn/post/ctrlx-automation---python-runtime-c69P85oL8ytuz8A) and the corresponding [documentation of the "Script parser/interpreter (Python)"](https://docs.automation.boschrexroth.com/iirds/cdp-metadata.boschrexroth.de~iiDC~Product-ctrlX-Python-Runtime-App/).
+Please note that for these examples the installation of the `ctrlX OS - Python Runtime App` is expected. See [our ctrlX OS Store](https://community.boschrexroth.com/ctrlx-os-store-apps-oc2pqqwn/post/ctrlx-automation---python-runtime-c69P85oL8ytuz8A) and the corresponding [documentation of the "Script parser/interpreter (Python)"](https://docs.automation.boschrexroth.com/iirds/cdp-metadata.boschrexroth.de~iiDC~Product-ctrlX-Python-Runtime-App/).
 
 ### Create an interpreter instance "MyInstance" for python
 
@@ -686,7 +716,7 @@ The following example shows how to abort a running script or command in a script
 
 ## ctrlX OS - EtherCat Master App dashboard examples
 
-Please note that for these examples the installation of the `ctrlX OS - EtherCat Master App` is expected. See [our store](https://community.boschrexroth.com/ctrlx-os-store-apps-oc2pqqwn/post/ctrlx-os---ethercat-master-RVDkUkDxigD17Gx) and the corresponding [documentation of the EtherCat Master App](https://docs.automation.boschrexroth.com/iirds/cdp-metadata.boschrexroth.de~iiDC~Product-ctrlX-EtherCAT-Master-App/).
+Please note that for these examples the installation of the `ctrlX OS - EtherCat Master App` is expected. See [our ctrlX OS Store](https://community.boschrexroth.com/ctrlx-os-store-apps-oc2pqqwn/post/ctrlx-os---ethercat-master-RVDkUkDxigD17Gx) and the corresponding [documentation of the EtherCat Master App](https://docs.automation.boschrexroth.com/iirds/cdp-metadata.boschrexroth.de~iiDC~Product-ctrlX-EtherCAT-Master-App/).
 
 ### Monitor and switch state of an EtherCat master instance `ethercatmaster`
 
